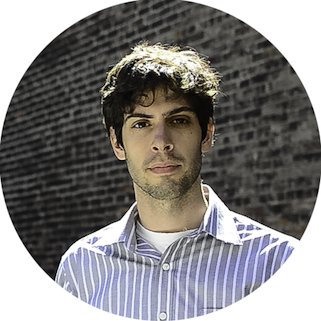
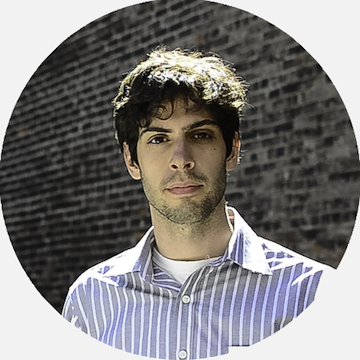
fix colors

diff --git a/assets/css/main.css b/assets/css/main.css
@@ -41,7 +41,7 @@ p {
 
 /* Links */
 a {
-    color: #5e7fd1;
+    color: #5ca36a;
     word-wrap: break-word;
 
     -webkit-transition: color 0.1s ease-in, background 0.1s ease-in;
@@ -88,8 +88,8 @@ a:after {
 }
 
 .navbar-inverse {
-	background-color: #5e7fd1;
-	border-color: #5e7fd1;
+	background-color: #5ca36a;
+	border-color: #5ca36a;
 }
 
 .navbar-inverse .navbar-nav > li > a {
@@ -115,7 +115,7 @@ a:after {
 }
 
 .progress-bar-theme {
-  background-color: #5e7fd1;
+  background-color: #5ca36a;
 }
 
 
@@ -137,7 +137,7 @@ a:after {
 #ww {
 	padding-top: 70px;
 	padding-bottom: 70px;
-	background-color: #ffffff;
+	background-color: #f2f2f2;
 }
 
 
